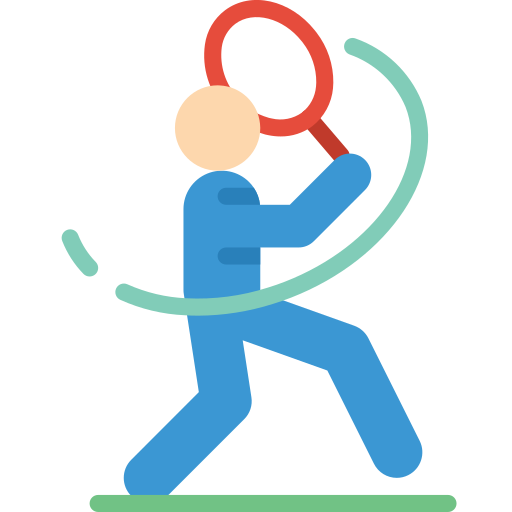
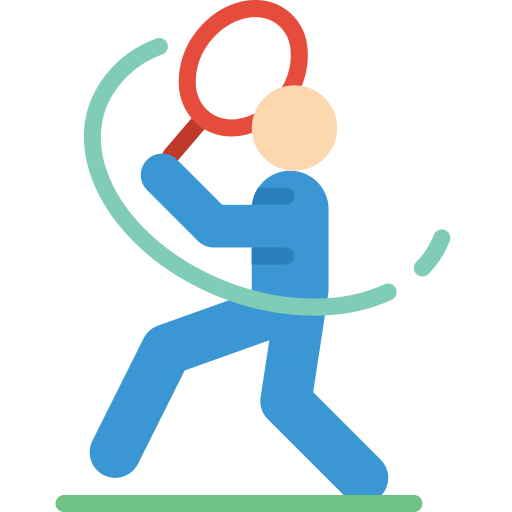
not not
v0.0.0.3

diff --git a/BINGBONG.py b/BINGBONG.py
@@ -23,22 +23,34 @@ class GameSprite(sprite.Sprite):
         window.blit(self.image, (self.rect.x, self.rect.y))
 
 class Player(GameSprite):
-    def update(self):
+    def update_l(self):
         keys = key.get_pressed()
-        if keys[K_LEFT] and self.rect.x > 5:
-            self.rect.x -= self.speed
-        if keys[K_RIGHT] and self.rect.x < win_width - 80:
-            self.rect.x += self.speed
+        if keys[K_w] and self.rect.y > 5:
+            self.rect.y -= self.speed
+        if keys[K_s] and self.rect.y < win_height - 80:
+            self.rect.y += self.speed
+
+    def update_r(self):
+        keys = key.get_pressed()
+        if keys[K_UP] and self.rect.y > 5:
+            self.rect.y -= self.speed
+        if keys[K_DOWN] and self.rect.y < win_height - 80:
+            self.rect.y += self.speed
 
 
-plauer1 = Player('slon.png', 50, 400, 80, 100, 15)
-plauer2 = Player('bron.png', 350, 400, 80, 100, 15)
-bill = GameSprite('oler.png', 200, 200, 10, 20, 10)
+plauer1 = Player('slon.png', 50, 400, 90, 110, 15)
+plauer2 = Player('bron.png', 550, 400, 90, 110, 15)
+bill = GameSprite('oler.png', 200, 200, 40, 40, 10)
 
 font.init()
 font1 = font.SysFont('Arial', 60)
-win = font1.render('YOUS WIN!!!', True, (255, 215, 0))
-lose = font1.render('YOUS deid hahahaha', True, (177,22,22))
+win_l = font1.render('YOUSl WIN!!!', True, (255, 215, 0))
+win_r = font1.render('YOUSr WIN!!!', True, (155, 115, 0))
+lose_l = font1.render('YOUSl deid hahahaha', True, (77,222,22))
+lose_r = font1.render('YOUSr deid hahahaha', True, (177,22,22))
+
+speed_x = 3
+speed_y = 3
 
 run = True
 finish = False
@@ -50,12 +62,24 @@ while run:
 
     if not finish:
         window.blit(background, (0, 0))
-        plauer1.update()
+        bill.rect.x += speed_x
+        bill.rect.y += speed_y
+        if bill.rect.y > win_height-50 or bill.rect.y <0:
+            speed_y *= -1
+        if sprite.collide_rect(plauer1, bill) or sprite.collide_rect(plauer2, bill):
+            speed_x *= -1
+        if bill.rect.x < 0:
+            finish = True
+            window.blit(lose_l, (202, 202))
+        if bill.rect.x > win_width:
+            finish = True
+            window.blit(lose_r, (202, 202))
+        plauer1.update_l()
         plauer1.reset()
-        plauer2.update()
+        plauer2.update_r()
         plauer2.reset()
-        bill.update()
         bill.reset()
+
 
     display.update()
     clock.tick(FPS)
